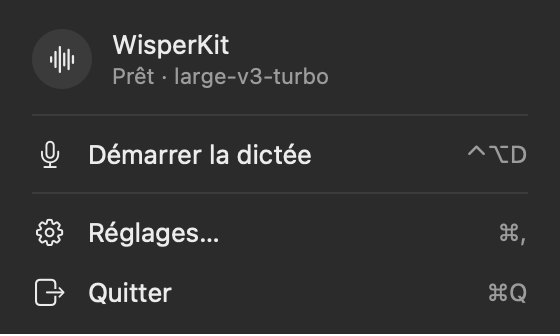
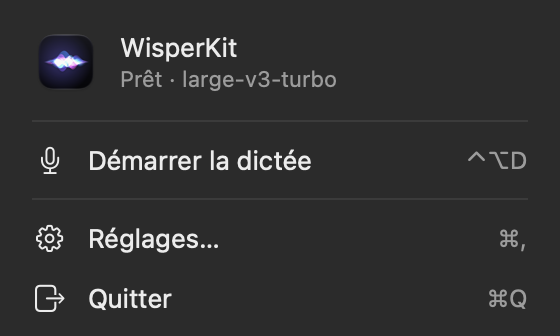
Ajoute l'icône de l'app (vagues sur fond noir, halo violet)
AppIcon généré depuis le rendu Debug --icon, logo dans le README et
dans l'en-tête du menu ; DMG 0.1.0 et cask régénérés.

diff --git a/App/WisperKit/Snapshots.swift b/App/WisperKit/Snapshots.swift
@@ -32,6 +32,19 @@ enum Snapshots {
         exit(0)
     }
 
+    /// Icône de l'app (1024 px, grille macOS : forme de 824 px centrée) :
+    ///   WisperKit --icon <fichier.png>
+    static func renderIconIfRequested() {
+        let args = CommandLine.arguments
+        guard let i = args.firstIndex(of: "--icon"), i + 1 < args.count else { return }
+        let renderer = ImageRenderer(content: AppIconArt())
+        renderer.scale = 1
+        guard let cg = renderer.cgImage else { print("ICON échec"); exit(1) }
+        let rep = NSBitmapImageRep(cgImage: cg)
+        try? rep.representation(using: .png, properties: [:])?.write(to: URL(filePath: args[i + 1]))
+        exit(0)
+    }
+
     /// Chaîne réelle micro → modèle actif → presse-papiers, sans raccourci :
     ///   WisperKit --selftest <secondes>   (parler, ou `say`, pendant l'écoute)
     static func runSelfTestIfRequested(app: AppModel) {
@@ -78,6 +91,35 @@ enum Snapshots {
         guard let rep = host.bitmapImageRepForCachingDisplay(in: host.bounds) else { return }
         host.cacheDisplay(in: host.bounds, to: rep)
         try? rep.representation(using: .png, properties: [:])?.write(to: url)
+    }
+}
+/// Logo : les vagues de l'indicateur dans un carré arrondi noir avec halo violet.
+struct AppIconArt: View {
+    var body: some View {
+        let shape = RoundedRectangle(cornerRadius: 185, style: .continuous)
+        ZStack {
+            shape
+                .fill(LinearGradient(colors: [Color(red: 0.09, green: 0.09, blue: 0.12),
+                                              Color(red: 0.02, green: 0.02, blue: 0.03)],
+                                     startPoint: .top, endPoint: .bottom))
+                .overlay {
+                    Canvas { ctx, size in
+                        WaveRenderer.drawHalo(in: &ctx, size: size, level: 0.75)
+                    }
+                    .clipShape(shape)
+                }
+                .overlay {
+                    Canvas { ctx, size in
+                        WaveRenderer.draw(in: &ctx, size: size, time: 1.3, level: 0.95)
+                        WaveRenderer.draw(in: &ctx, size: size, time: 4.1, level: 0.55)
+                    }
+                    .frame(width: 720, height: 380)
+                }
+                .overlay(shape.strokeBorder(.white.opacity(0.09), lineWidth: 4))
+                .frame(width: 824, height: 824)
+                .shadow(color: .black.opacity(0.35), radius: 20, y: 12)
+        }
+        .frame(width: 1024, height: 1024)
     }
 }
 #endif

diff --git a/App/WisperKit/AppModel.swift b/App/WisperKit/AppModel.swift
@@ -100,7 +100,7 @@ final class AppModel {
         let args = CommandLine.arguments
         isFirstLaunch = !defaults.bool(forKey: "onboarded") || args.contains("--first-launch")
         // Les modes Debug (captures, autotest) partagent les réglages : ils ne consomment pas l'accueil.
-        if !args.contains("--snapshots") && !args.contains("--selftest") {
+        if !args.contains("--snapshots") && !args.contains("--selftest") && !args.contains("--icon") {
             defaults.set(true, forKey: "onboarded")
         }
         showHUD = defaults.bool(forKey: "showHUD")
@@ -113,7 +113,8 @@ final class AppModel {
 
         refreshInstalled()
         setUpShortcuts()
-        if !CommandLine.arguments.contains("--snapshots") { Task { await loadActiveModel() } }
+        let renderOnly = CommandLine.arguments.contains("--snapshots") || CommandLine.arguments.contains("--icon")
+        if !renderOnly { Task { await loadActiveModel() } }
         let bundle = Bundle.main.bundlePath
         DiagnosticLog.write("démarrage \(bundle) envoiTouches=\(TextInserter.canPostEvents) axTrusted=\(AXIsProcessTrusted())")
     }

diff --git a/App/WisperKit/MenuBarView.swift b/App/WisperKit/MenuBarView.swift
@@ -50,10 +50,9 @@ struct MenuBarView: View {
 
     private var header: some View {
         HStack(spacing: 10) {
-            ZStack {
-                Circle().fill(Theme.popoverStroke).frame(width: 30, height: 30)
-                Image(systemName: "waveform").font(.system(size: 13, weight: .medium)).foregroundStyle(Theme.text)
-            }
+            Image(nsImage: NSApp.applicationIconImage)
+                .resizable()
+                .frame(width: 34, height: 34)
             VStack(alignment: .leading, spacing: 1) {
                 Text("WisperKit").font(.system(size: 13)).foregroundStyle(Theme.text)
                 Text(app.statusLine).font(.system(size: 11)).foregroundStyle(statusColor).lineLimit(2)

diff --git a/App/WisperKit/WisperKitApp.swift b/App/WisperKit/WisperKitApp.swift
@@ -12,6 +12,7 @@ struct WisperKitApp: App {
         #if DEBUG
         Snapshots.runIfRequested(app: model)
         Snapshots.runSelfTestIfRequested(app: model)
+        Snapshots.renderIconIfRequested()
         #endif
     }
 

diff --git a/Casks/wisperkit.rb b/Casks/wisperkit.rb
@@ -1,6 +1,6 @@
 cask "wisperkit" do
   version "0.1.0"
[2 lines of base64/hex data omitted]
 
   url "https://github.com/eldriic/WisperKit/releases/download/v#{version}/WisperKit-#{version}.dmg"
   name "WisperKit"

diff --git a/README.md b/README.md
@@ -1,5 +1,7 @@
 <div align="center">
 
+<img src="docs/brand/icon-256.png" width="128" alt="WisperKit icon">
+
 # WisperKit
 
 **Private, on-device dictation for macOS — press a shortcut, speak, and your words appear wherever your cursor is.**
